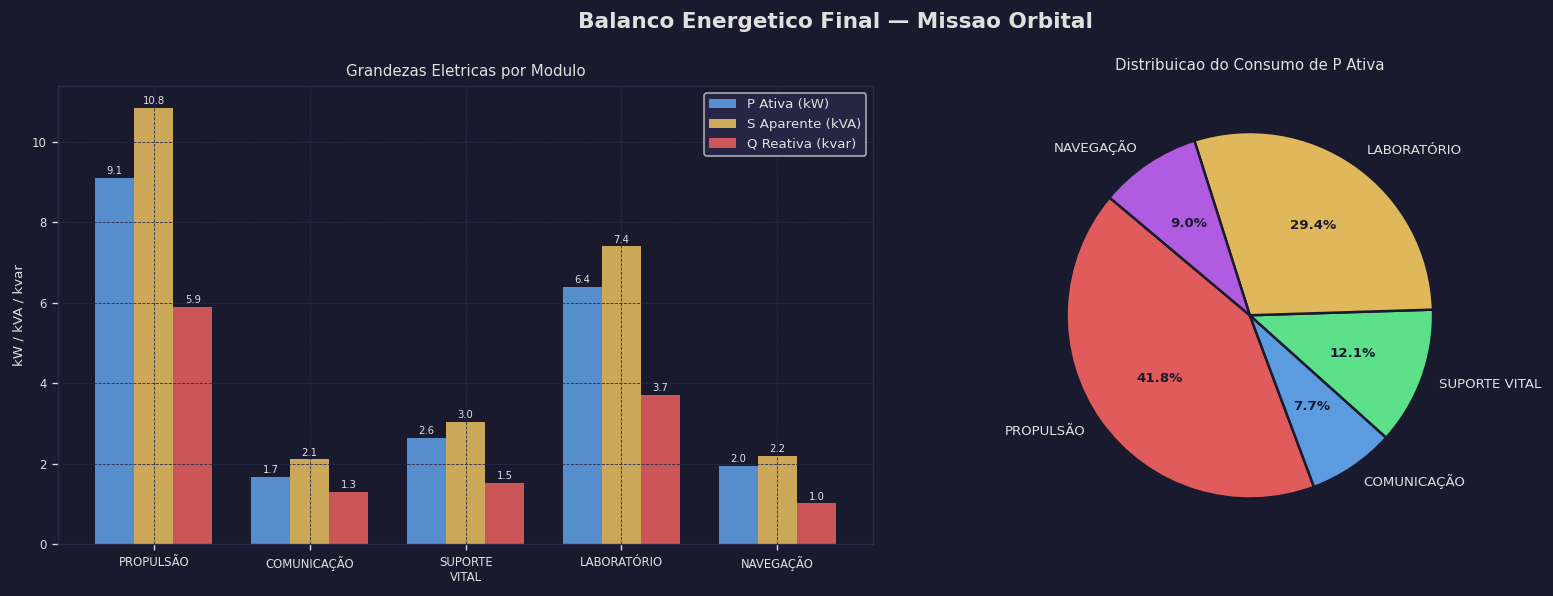
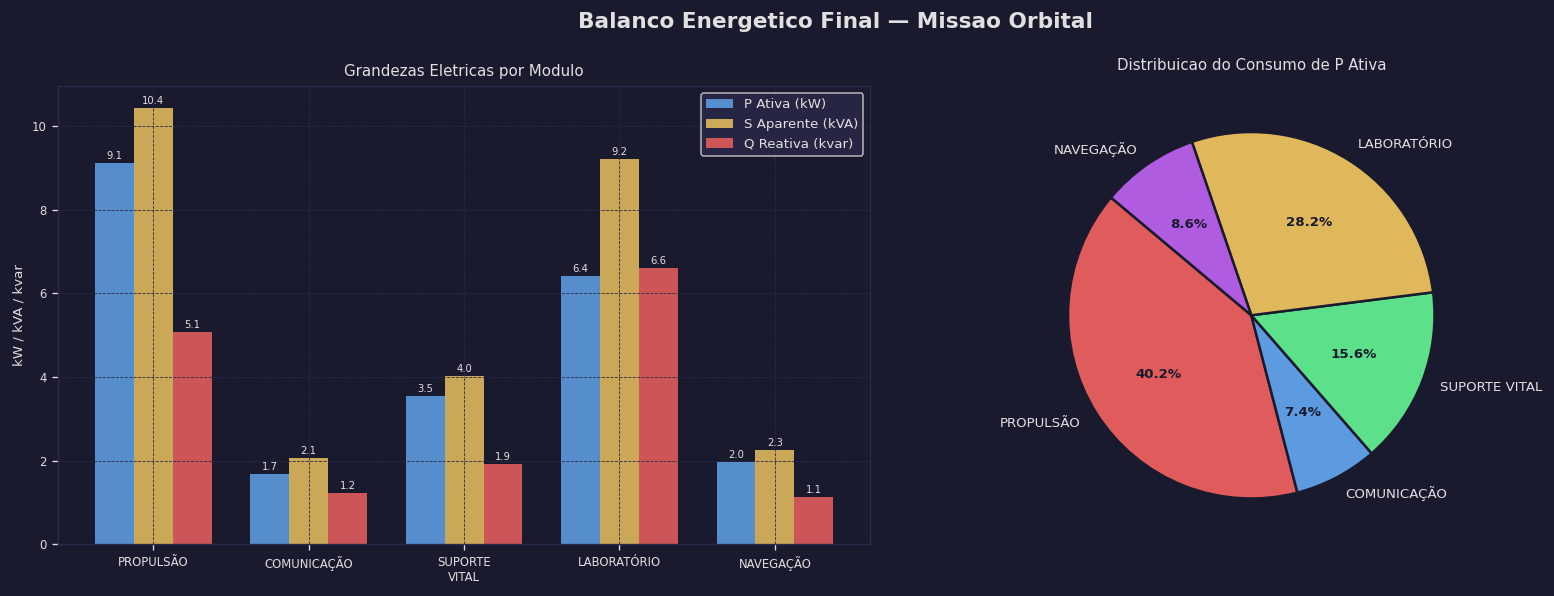
fix: corrigido questão de corrompimento entre 'critico' e 'cŕitico'

diff --git a/modules/alert_system.py b/modules/alert_system.py
@@ -22,7 +22,7 @@ from enum import Enum
 class NivelAlerta(Enum):
     INFO    = "INFO"
     AVISO   = "AVISO"
-    CRITICO = "CRÍTICO"
+    CRITICO = "CRITICO"
     FALHA   = "FALHA"
 
 
@@ -30,7 +30,7 @@ class NivelAlerta(Enum):
 COR = {
     "INFO":     "\033[96m",    # Ciano
     "AVISO":    "\033[93m",    # Amarelo
-    "CRÍTICO":  "\033[91m",    # Vermelho
+    "CRITICO":  "\033[91m",    # Vermelho
     "FALHA":    "\033[95m",    # Magenta
     "RESET":    "\033[0m",
     "VERDE":    "\033[92m",
@@ -114,7 +114,7 @@ def verificar_rendimento(modulo) -> list[Alerta]:
         alertas.append(Alerta(
             modulo=modulo.nome,
             nivel=NivelAlerta.CRITICO,
-            mensagem=f"Rendimento CRÍTICO: {n*100:.1f}% (mín seguro: 70%)",
+            mensagem=f"Rendimento CRITICO: {n*100:.1f}% (mín seguro: 70%)",
             valor_atual=n,
             limite=0.70,
             resposta_automatica="-> Módulo sinalizado para manutenção de emergência, redundância ativada"
@@ -144,7 +144,7 @@ def verificar_fator_potencia(modulo) -> list[Alerta]:
         alertas.append(Alerta(
             modulo=modulo.nome,
             nivel=NivelAlerta.CRITICO,
-            mensagem=f"Fator de Potência CRÍTICO: {fp:.3f} (mín: 0.75)",
+            mensagem=f"Fator de Potência CRITICO: {fp:.3f} (mín: 0.75)",
             valor_atual=fp,
             limite=0.75,
             resposta_automatica="-> Ativando banco de capacitores de correção de FP"
@@ -198,9 +198,9 @@ def status_geral_missao(todos_alertas: list[Alerta]) -> tuple[str, str]:
     Retorna o status geral da missão baseado no pior alerta ativo.
     """
     if any(a.nivel == NivelAlerta.FALHA for a in todos_alertas):
-        return "FALHA CRÍTICA", COR["CRÍTICO"]
+        return "FALHA CRÍTICA", COR["CRITICO"]
     if any(a.nivel == NivelAlerta.CRITICO for a in todos_alertas):
-        return "ATENÇÃO MÁXIMA", COR["CRÍTICO"]
+        return "ATENÇÃO MÁXIMA", COR["CRITICO"]
     if any(a.nivel == NivelAlerta.AVISO for a in todos_alertas):
         return "MONITORANDO", COR["AVISO"]
     return "NOMINAL", COR["VERDE"]

diff --git a/modules/display.py b/modules/display.py
@@ -27,14 +27,14 @@ def barra_progresso(valor: float, maximo: float, tamanho: int = 20, invertido: b
 
     if invertido:
         if pct > 0.90:
-            cor = COR["CRÍTICO"]
+            cor = COR["CRITICO"]
         elif pct > 0.75:
             cor = COR["AVISO"]
         else:
             cor = COR["VERDE"]
     else:
         if pct < 0.60:
-            cor = COR["CRÍTICO"]
+            cor = COR["CRITICO"]
         elif pct < 0.80:
             cor = COR["AVISO"]
         else:
@@ -71,9 +71,9 @@ def painel_modulo(modulo, alertas_modulo: list) -> None:
     # Determina cor do módulo baseado nos alertas
     tem_critico = any(a.nivel.value in ["CRÍTICO", "FALHA"] for a in alertas_modulo)
     tem_aviso   = any(a.nivel.value == "AVISO" for a in alertas_modulo)
-    cor_mod = COR["CRÍTICO"] if tem_critico else (COR["AVISO"] if tem_aviso else COR["VERDE"])
+    cor_mod = COR["CRITICO"] if tem_critico else (COR["AVISO"] if tem_aviso else COR["VERDE"])
 
-    status_com = f"{COR['VERDE']}● ONLINE{COR['RESET']}" if modulo.comunicacao_ok else f"{COR['CRÍTICO']}✗ FALHA{COR['RESET']}"
+    status_com = f"{COR['VERDE']}● ONLINE{COR['RESET']}" if modulo.comunicacao_ok else f"{COR['CRITICO']}✗ FALHA{COR['RESET']}"
 
     print(f"\n  {cor_mod}{COR['NEGRITO']}[ {modulo.nome} ]{COR['RESET']}  Comunicação: {status_com}  |  Uptime: {modulo.tempo_operacao_h:.0f}h")
     print(f"  {'─'*64}")